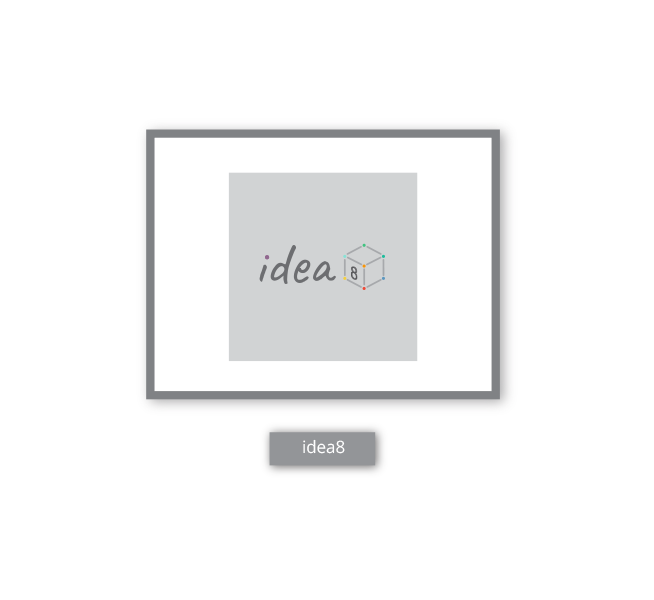
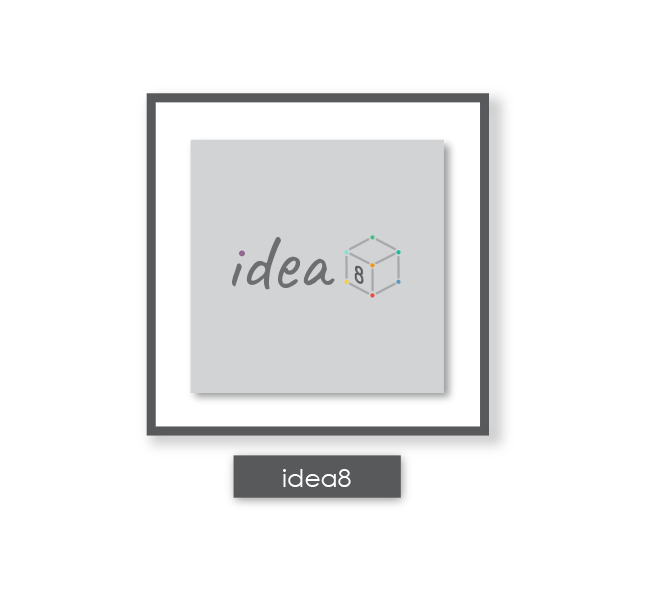
patch 2.0

Changed region(s): [[0.2147, 0.15, 0.7669, 0.84]]

diff --git a/gallery.html b/gallery.html
@@ -53,13 +53,33 @@
   </div><!-- /.container-fluid -->
 </nav>
 
-<div class = "img animated fadeIn">
-	<img src="images/frame3.png" id = "frame3">
-	<img src="images/frame1.png" id = "frame1">
-</div>
-<div class = "img animated fadeIn">
-	<img src="images/frame2.png" id = "frame2">
-</div>
+	<div class = "container-fluid" id = "icons">
+			<div class="row" id = "row1">
+					<img src="images/frame3.png" height = "375" id = "frame1">
+			</div>
+			<div class = "row" id = "row2">
+				<div class="col-md-6">
+						<div class = "hex animated fadeIn">
+							<center> <img src="images/frame1.png" height = "400" id = "frame3">
+							</center>
+						</div>
+				</div>
+				<div class="col-md-6">
+						<div class = "hex animated fadeIn">
+							<center> <img src="images/frame2.png" height = "400" id = "frame3">
+							</center>
+						</div>
+				</div>
+			</div>
+			<div class = "row" id = "row3">
+				<img src="images/frame4.png" height = "375" id = "frame2">
+			</div>
+			
+		
+	</div>
+	
+	
+
 
 
 

diff --git a/css/gallery.css b/css/gallery.css
@@ -1,16 +1,34 @@
 #frame1 {
-	width:27%;
-	 display: block;
+
+	display: block;
     margin-left: auto;
     margin-right: auto; 
 	margin-top: 4%;
 	}
 #frame2 {
-	width:27%;
-	 display: block;
+	
+	display: block;
     margin-left: auto;
     margin-right: auto; 
-	margin-top:-4%;
+	margin-top:-8%;
+	
+	}
+#row1{
+	margin-top:-2%;
+	}
+#row2{
+	margin-top:-10%;
+	
+	}
+#row3{
+	
+	}
+#icons{
+	width: 90%;
+	}
+	
+.container{
+	padding-top: 5%;
 	}
 body{ 
 	background-color: #E6E7E8;

diff --git a/css/design.css b/css/design.css
@@ -55,5 +55,5 @@ body{
 	
 	/* animations*/
 .hex{ -webkit-animation-delay: .3s;}
-.hex2{ -webkit-animation-delay: .5s;}
-.hex3{ -webkit-animation-delay: .7s;}
+.hex2{ -webkit-animation-delay: .7s;}
+.hex3{ -webkit-animation-delay: .9s;}
